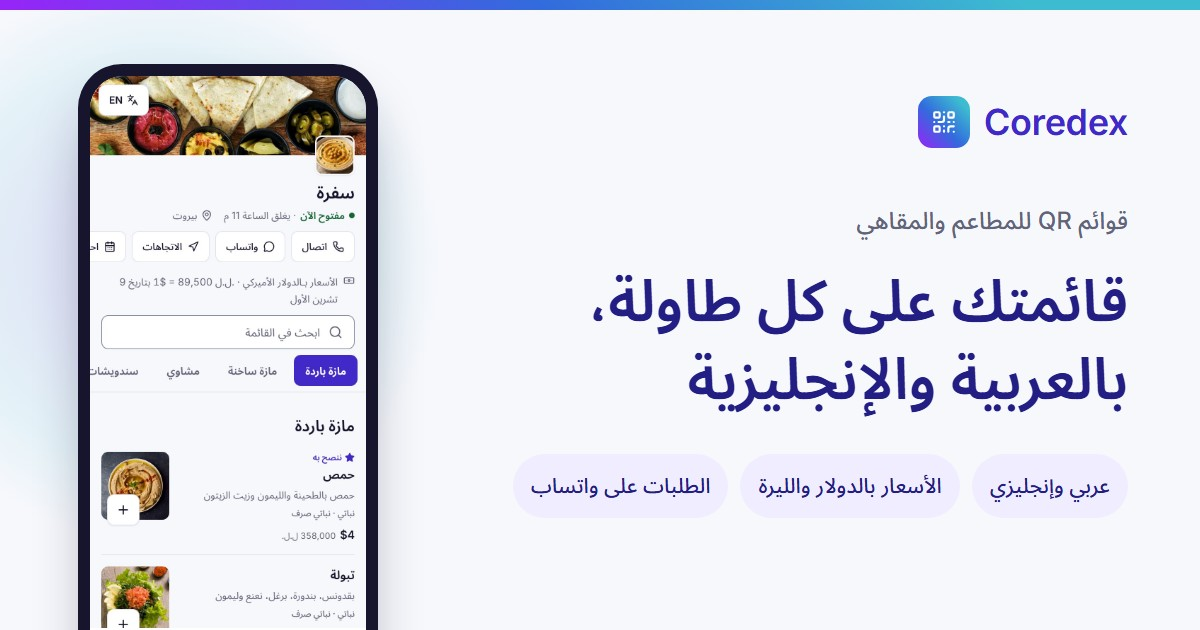
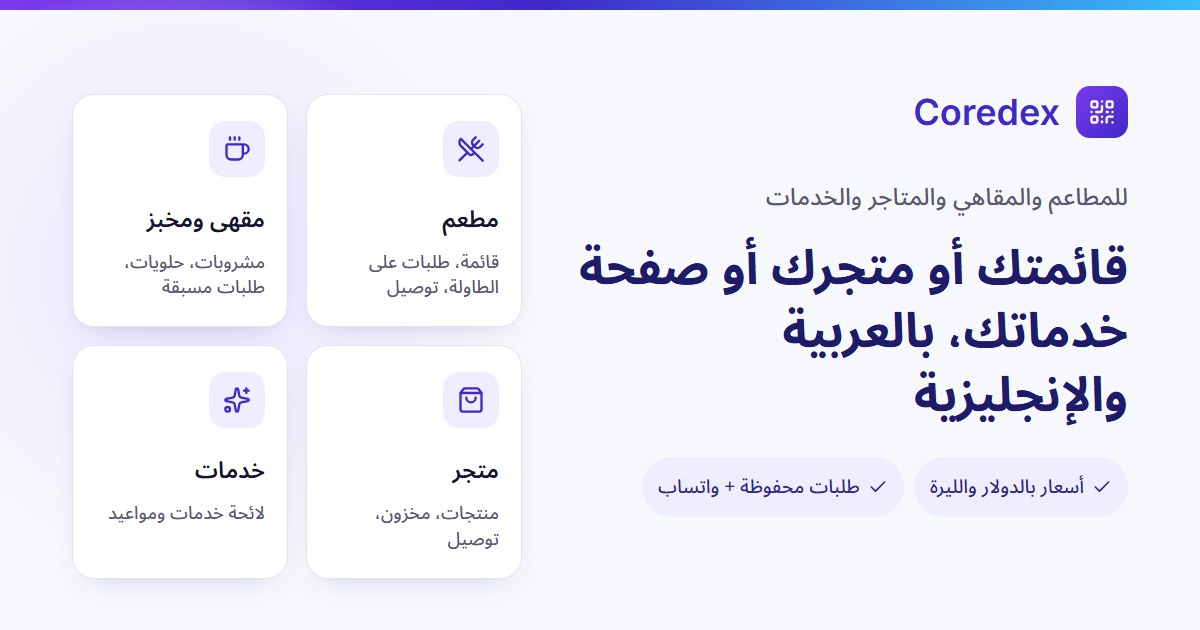
fix: legal pages and share images for the general platform
The privacy policy said Coredex never receives or stores orders and the
terms said it doesn't track them; both became untrue with saved orders.
They now describe what is saved, why, for how long, and the business's
duties. Site title, description and share images now cover menus,
stores and service pages.

diff --git a/src/app/(legal)/privacy/page.tsx b/src/app/(legal)/privacy/page.tsx
@@ -2,10 +2,10 @@ import type { Metadata } from "next";
 
 export const metadata: Metadata = {
   title: "Privacy policy",
-  description: "What Coredex collects from restaurant owners and their guests, why, and who processes it.",
+  description: "What Coredex collects from business owners and their customers, why, and who processes it.",
 };
 
-const UPDATED = "9 October 2026";
+const UPDATED = "4 November 2026";
 
 export default function PrivacyPage() {
   return (
@@ -14,34 +14,36 @@ export default function PrivacyPage() {
       <p className="text-ui-muted">Last updated {UPDATED}</p>
 
       <p>
-        Coredex provides digital QR menus for restaurants and cafés. This policy explains what we collect from
-        restaurant owners who use Coredex (&ldquo;owners&rdquo;) and from people who open a restaurant&rsquo;s menu
-        (&ldquo;guests&rdquo;), what we use it for, and who processes it for us. Questions:{" "}
+        Coredex lets restaurants, cafés, shops and service businesses publish an online page (a menu, a store or a
+        list of services) and receive orders, bookings and appointment requests. This policy explains what we collect
+        from business owners who use Coredex (&ldquo;owners&rdquo;) and from people who open a business&rsquo;s page
+        (&ldquo;customers&rdquo;), what we use it for, and who processes it for us. Questions:{" "}
         <a href="mailto:info@coredex.solutions">info@coredex.solutions</a>.
       </p>
 
-      <h2>Restaurant owners</h2>
+      <h2>Business owners</h2>
       <ul>
         <li><strong>Account:</strong> your name, email address and a password, which we store only as a one-way hash.</li>
         <li><strong>Email verification:</strong> a six-digit code we email you at signup. It expires after 10 minutes.</li>
-        <li><strong>Menu content:</strong> everything you add to your menu: dishes, prices, exchange rate, photos, opening hours, branches, contact numbers, social links and FAQs. This content is public on your menu page.</li>
+        <li><strong>Page content:</strong> everything you add to your page: dishes, products or services, prices, exchange rate, photos, opening hours, branches, contact numbers, social links and FAQs. This content is public on your page. Stock counts and SKUs are not shown to customers.</li>
         <li><strong>Plan details:</strong> your plan, its dates and any upgrade requests. Payments are arranged directly with us; we do not store card details.</li>
       </ul>
 
-      <h2>Guests</h2>
-      <p>Guests do not need an account. When someone opens a menu:</p>
+      <h2>Customers</h2>
+      <p>Customers do not need an account. When someone opens a business&rsquo;s page:</p>
       <ul>
         <li><strong>Preferences on the device:</strong> the chosen language and light or dark mode are kept in cookies, and the current order is kept in the browser&rsquo;s local storage. They stay on the device.</li>
-        <li><strong>Visit statistics:</strong> we count menu views and WhatsApp order taps for the restaurant&rsquo;s statistics. To estimate unique visitors we store an identifier derived from browser characteristics (such as browser type, language, screen size and time zone). We do not store names, phone numbers or IP addresses for these statistics.</li>
-        <li><strong>Orders by WhatsApp:</strong> the order message, with the name, phone number, address or table number the guest types, is put together in the guest&rsquo;s browser and sent through WhatsApp directly to the restaurant. Coredex does not receive or store it. WhatsApp&rsquo;s own privacy policy applies to the message.</li>
-        <li><strong>AI waiter (if the restaurant turned it on):</strong> questions typed or spoken to the AI waiter, and the menu they relate to, are sent to our AI provider to produce an answer. Spoken answers are produced by a text-to-speech provider. Please do not share sensitive personal information with it.</li>
+        <li><strong>Visit statistics:</strong> we count page views and order taps for the business&rsquo;s statistics. To estimate unique visitors we store an identifier derived from browser characteristics (such as browser type, language, screen size and time zone). We do not store names, phone numbers or IP addresses for these statistics.</li>
+        <li><strong>Orders, bookings and requests:</strong> when a customer sends one, we save it for that business: the name and phone number they type, the items, the order type and, where the business asks for them, a table number, a delivery or visit address, a preferred date and time, the number of people and a note. The business sees it in its dashboard and uses it to prepare the order and contact the customer. The customer can then send the same details to the business on WhatsApp; WhatsApp&rsquo;s own privacy policy applies to that message.</li>
+        <li><strong>AI assistant (if the business turned it on):</strong> questions typed or spoken to the AI assistant, and the menu they relate to, are sent to our AI provider to produce an answer. Spoken answers are produced by a text-to-speech provider. Please do not share sensitive personal information with it.</li>
       </ul>
 
       <h2>Why we use it</h2>
       <ul>
-        <li>To run the service: show menus, let owners sign in and edit them, and send verification codes.</li>
-        <li>To show owners statistics about their own menu.</li>
-        <li>To keep the service secure, for example by limiting repeated sign-in attempts. For this we briefly record the IP address of requests; these records are deleted after about a day.</li>
+        <li>To run the service: show pages, let owners sign in and edit them, and send verification codes.</li>
+        <li>To pass customers&rsquo; orders, bookings and requests to the business they chose.</li>
+        <li>To show owners statistics about their own page.</li>
+        <li>To keep the service secure, for example by limiting repeated sign-in attempts and repeated orders. For this we briefly record the IP address of requests and, for orders, the phone number entered; these records are deleted after about a day.</li>
       </ul>
       <p>We do not sell personal information and we do not use it for advertising.</p>
 
@@ -50,22 +52,24 @@ export default function PrivacyPage() {
         <li><strong>Turso</strong> hosts the database.</li>
         <li><strong>Cloudflare R2</strong> stores uploaded images.</li>
         <li>Our <strong>email provider</strong> sends verification emails.</li>
-        <li><strong>Google (Gemini and Cloud Text-to-Speech)</strong>, <strong>Groq</strong> and <strong>OpenAI</strong> provide AI features such as the AI waiter, its spoken replies, writing help and photo enhancement, only when those features are used. If spoken replies aren&apos;t set up, the guest&apos;s own phone reads them aloud.</li>
+        <li><strong>Google (Gemini and Cloud Text-to-Speech)</strong>, <strong>Groq</strong> and <strong>OpenAI</strong> provide AI features such as the AI assistant, its spoken replies, writing help and photo enhancement, only when those features are used. If spoken replies aren&apos;t set up, the customer&apos;s own phone reads them aloud.</li>
         <li>Our <strong>hosting provider</strong> runs the servers that serve the site.</li>
       </ul>
       <p>These providers may process data outside Lebanon.</p>
 
       <h2>How long we keep it</h2>
       <ul>
-        <li>Account and menu content: while the account exists. Ask us to delete your account and we delete its content.</li>
+        <li>Account and page content: while the account exists. Ask us to delete your account and we delete its content.</li>
+        <li>Orders, bookings and requests: while the business&rsquo;s account exists, unless the business or the customer asks us to delete them sooner.</li>
         <li>Verification codes: replaced by the next code and invalid after 10 minutes.</li>
-        <li>Visit statistics: while the restaurant&rsquo;s account exists.</li>
+        <li>Visit statistics: while the business&rsquo;s account exists.</li>
       </ul>
 
       <h2>Your choices</h2>
       <p>
-        Owners can edit or remove their menu content at any time and can ask us for a copy of their data or for
-        deletion. Guests can clear the cookies and local storage in their browser. For any request, email{" "}
+        Owners can edit or remove their page content at any time and can ask us for a copy of their data or for
+        deletion. Customers can clear the cookies and local storage in their browser, and can ask the business, or
+        us, to delete an order or request they sent. For any request, email{" "}
         <a href="mailto:info@coredex.solutions">info@coredex.solutions</a>.
       </p>
 

diff --git a/src/app/(legal)/terms/page.tsx b/src/app/(legal)/terms/page.tsx
@@ -2,10 +2,10 @@ import type { Metadata } from "next";
 
 export const metadata: Metadata = {
   title: "Terms of service",
-  description: "The terms for restaurants and cafés using Coredex digital menus.",
+  description: "The terms for businesses using Coredex for their online menu, store or services page.",
 };
 
-const UPDATED = "9 October 2026";
+const UPDATED = "4 November 2026";
 
 export default function TermsPage() {
   return (
@@ -14,15 +14,17 @@ export default function TermsPage() {
       <p className="text-ui-muted">Last updated {UPDATED}</p>
 
       <p>
-        These terms apply to restaurants, cafés and other businesses (&ldquo;you&rdquo;) that create a menu with
-        Coredex. By creating an account you agree to them. Questions:{" "}
+        These terms apply to restaurants, cafés, shops, service providers and other businesses (&ldquo;you&rdquo;)
+        that create a page with Coredex. By creating an account you agree to them. Questions:{" "}
         <a href="mailto:info@coredex.solutions">info@coredex.solutions</a>.
       </p>
 
       <h2>The service</h2>
       <p>
-        Coredex lets you publish a digital menu at a web address and QR code, in Arabic and English. Guests can send you orders and reservation requests through WhatsApp. Coredex passes the
-        message to WhatsApp; it does not take, confirm or track orders, and it does not process payments from guests.
+        Coredex lets you publish a menu, store or services page at a web address and QR code, in Arabic and English.
+        Customers can send you orders, bookings and appointment requests. Coredex saves them in your dashboard and
+        lets the customer send them to you on WhatsApp too. You decide whether to accept, prepare and deliver each
+        order; Coredex is not a party to the sale and does not process payments from customers.
       </p>
 
       <h2>Your account</h2>
@@ -31,19 +33,25 @@ export default function TermsPage() {
         <li>One account per business, unless we agree otherwise.</li>
       </ul>
 
-      <h2>Your menu content</h2>
+      <h2>Your content</h2>
       <ul>
-        <li>You own your content: dishes, prices, photos, descriptions and other information.</li>
-        <li>You let us store and display it so your menu works, including on your public menu page and in search engines.</li>
-        <li>You are responsible for its accuracy, including prices, the exchange rate you set, allergens and availability, and for having the rights to the photos you upload.</li>
-        <li>Content must be lawful and must not mislead guests.</li>
+        <li>You own your content: dishes, products, services, prices, photos, descriptions and other information.</li>
+        <li>You let us store and display it so your page works, including on your public page and in search engines.</li>
+        <li>You are responsible for its accuracy, including prices, sale prices, the exchange rate you set, stock, allergens and availability, and for having the rights to the photos you upload.</li>
+        <li>Content must be lawful and must not mislead customers.</li>
+      </ul>
+
+      <h2>Customer orders</h2>
+      <ul>
+        <li>Use the names, phone numbers and addresses customers send you only to handle their order, booking or request, and keep them private.</li>
+        <li>If a customer asks you to delete an order or request they sent, tell us and we will delete it.</li>
       </ul>
 
       <h2>AI features</h2>
       <p>
-        AI features (such as the AI waiter, writing help and AI photos) can make mistakes. Check AI-written
-        text and AI photos before you publish them. An improved photo must still show the dish as it is served.
-        Images created by AI from a dish&apos;s name are shown to guests labelled &quot;Illustrative image&quot;. Each AI photo
+        AI features (such as the AI assistant, writing help and AI photos) can make mistakes. Check AI-written
+        text and AI photos before you publish them. An improved photo must still show the item as it really is.
+        Images created by AI from an item&apos;s name are shown to customers labelled &quot;Illustrative image&quot;. Each AI photo
         uses one of your plan&apos;s monthly credits; a request that fails gives its credit back.
       </p>
 
@@ -51,8 +59,8 @@ export default function TermsPage() {
       <ul>
         <li>New accounts start with a free 2-day trial.</li>
         <li>Plans are paid yearly, at the prices shown on our website when you subscribe. Payment is arranged directly with us.</li>
-        <li>Each plan has limits, for example on the number of dishes and categories, and some features are only in higher plans.</li>
-        <li>When a trial or plan ends, your menu stays online for 7 more days so you can renew. After that, the menu stops being shown to guests and editing is paused until you renew. Your content is kept.</li>
+        <li>Each plan has limits, for example on the number of items and categories, and some features are only in higher plans.</li>
+        <li>When a trial or plan ends, your page stays online for 7 more days so you can renew. After that, the page stops being shown to customers, new orders can&apos;t be sent, and editing is paused until you renew. Your content and past orders are kept.</li>
       </ul>
 
       <h2>Acceptable use</h2>

diff --git a/src/app/layout.tsx b/src/app/layout.tsx
@@ -8,28 +8,28 @@ const baseUrl = (process.env.NEXT_PUBLIC_BASE_URL || "http://localhost:3000").re
 export const metadata: Metadata = {
   metadataBase: new URL(baseUrl),
   title: {
-    default: "Coredex: QR menus for restaurants and cafés",
+    default: "Coredex: online menus, stores and service pages in Arabic and English",
     template: "%s | Coredex",
   },
   description:
-    "A fast QR menu guests open in the browser, in Arabic and English, with prices in dollars and Lebanese pounds and orders sent to WhatsApp.",
-  keywords: ["QR menu", "digital menu", "Lebanon", "restaurant menu", "WhatsApp ordering", "menu Arabic English"],
+    "Your menu, store or services page, opened from a QR code or a link. Arabic and English, prices in dollars and Lebanese pounds, and every order saved and sent to your WhatsApp.",
+  keywords: ["QR menu", "online store", "digital menu", "Lebanon", "booking", "WhatsApp ordering", "Arabic English"],
   creator: "Coredex",
   publisher: "Coredex",
   openGraph: {
     type: "website",
     locale: "en_US",
     url: "/",
-    title: "Coredex: QR menus for restaurants and cafés",
-    description: "QR menus in Arabic and English, with dollar and pound prices and WhatsApp orders.",
+    title: "Coredex: online menus, stores and service pages in Arabic and English",
+    description: "Menus, stores and service pages in Arabic and English, with dollar and pound prices and orders saved and sent to WhatsApp.",
     siteName: "Coredex",
-    images: [{ url: "/og/coredex-en.jpg", width: 1200, height: 630, alt: "Coredex: QR menus for restaurants and cafés" }],
+    images: [{ url: "/og/coredex-en.jpg", width: 1200, height: 630, alt: "Coredex: online menus, stores and service pages in Arabic and English" }],
   },
   twitter: {
     card: "summary_large_image",
     images: ["/og/coredex-en.jpg"],
     title: "Coredex",
-    description: "QR menus for restaurants and cafés.",
+    description: "Online menus, stores and service pages for restaurants, cafés, shops and services.",
   },
 };
 
